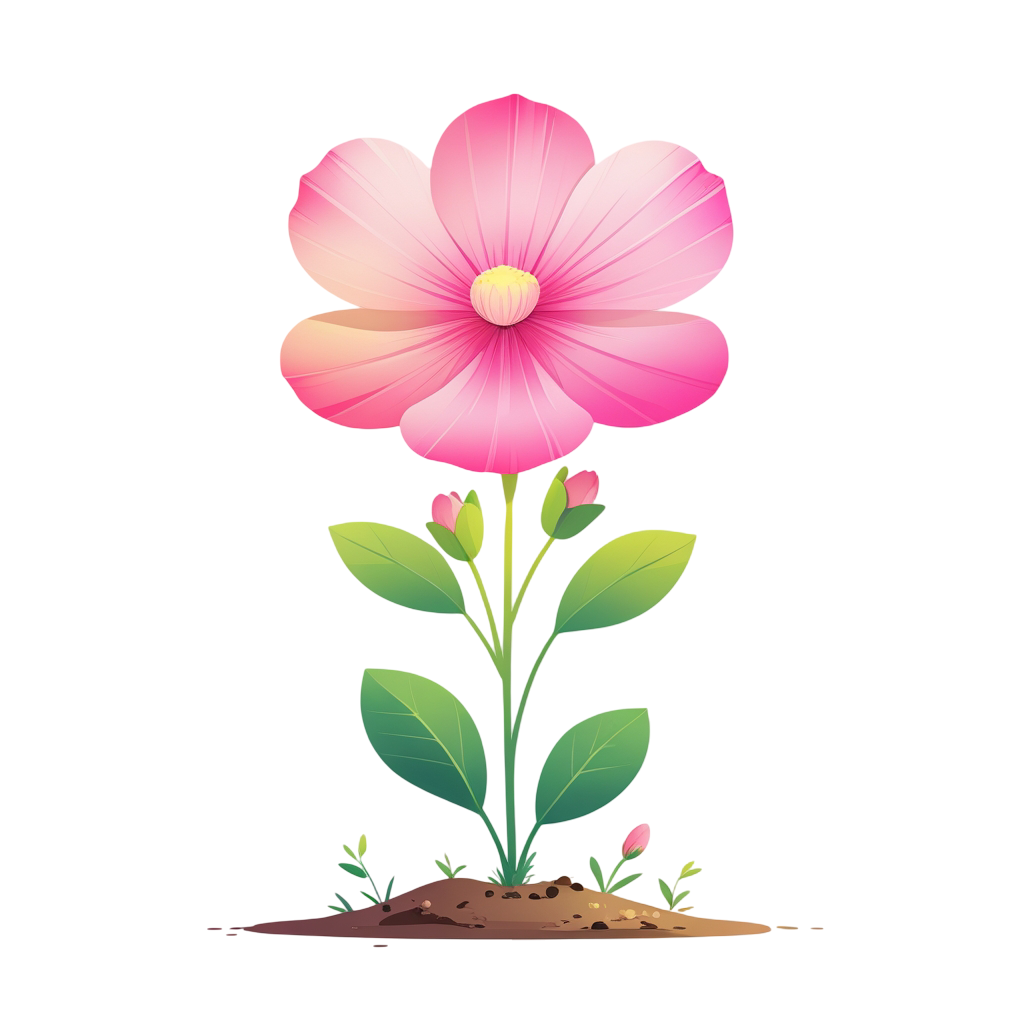
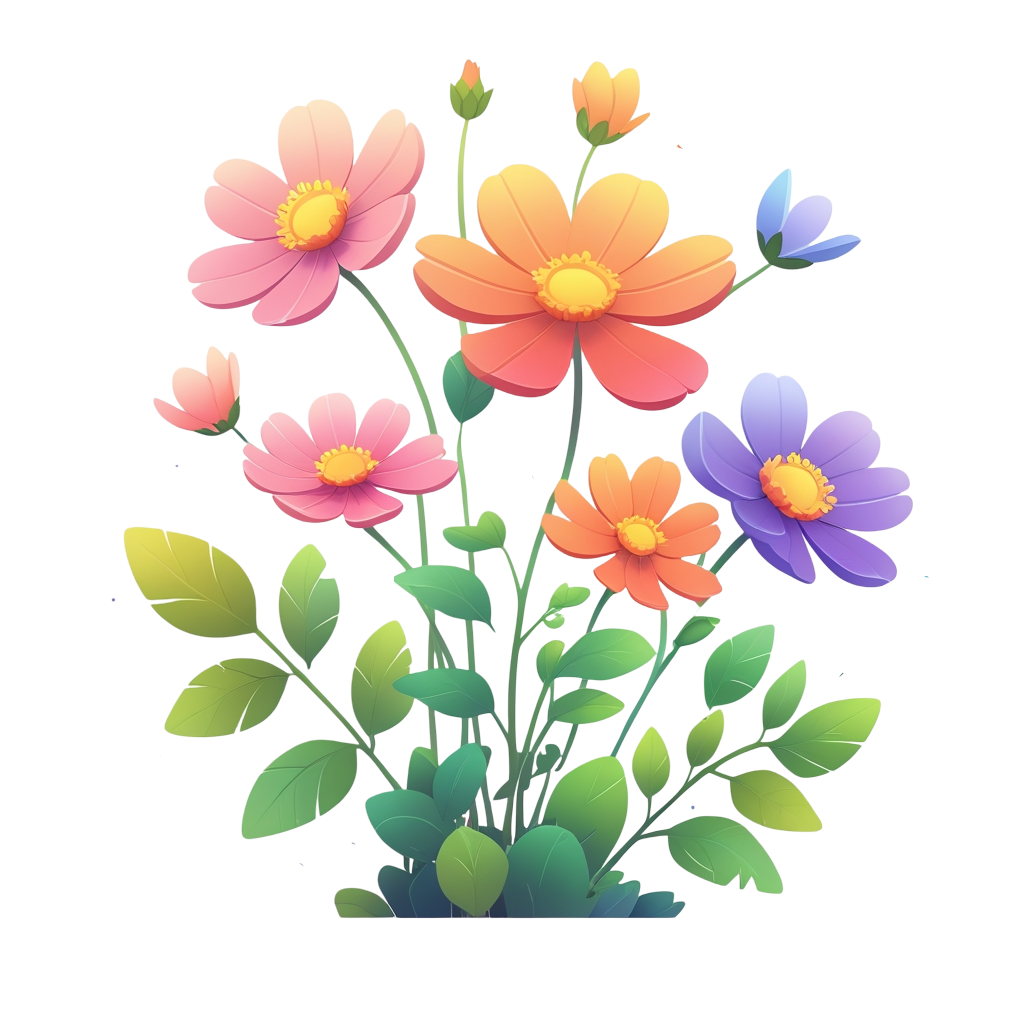
transaction bugs

diff --git a/app/goals/transaction.tsx b/app/goals/transaction.tsx
@@ -90,6 +90,12 @@ function EditGoalTransactionModal({ tx, symbol, goalId, onClose }: EditGoalTrans
   const [txType, setTxType] = useState<GoalTransactionType>("deposit");
   const [note, setNote] = useState("");
   const [confirmDelete, setConfirmDelete] = useState(false);
+  const [errorToast, setErrorToast] = useState("");
+
+  const showError = (msg: string) => {
+    setErrorToast(msg);
+    setTimeout(() => setErrorToast(""), 3000);
+  };
 
   useEffect(() => {
     if (tx) {
@@ -118,6 +124,7 @@ function EditGoalTransactionModal({ tx, symbol, goalId, onClose }: EditGoalTrans
       queryClient.invalidateQueries({ queryKey: ["goals", "active"] });
       handleClose();
     },
+    onError: (err: Error) => showError(err.message),
   });
 
   const deleteMutation = useMutation({
@@ -243,8 +250,15 @@ function EditGoalTransactionModal({ tx, symbol, goalId, onClose }: EditGoalTrans
                   <Text style={styles.deleteBtnText}>Delete transaction</Text>
                 </Pressable>
               )}
+
             </View>
           </KeyboardAvoidingView>
+
+          {!!errorToast && (
+            <View style={styles.errorToast} pointerEvents="none">
+              <Text style={styles.errorToastText}>{errorToast}</Text>
+            </View>
+          )}
         </View>
       </TouchableWithoutFeedback>
     </Modal>
@@ -254,12 +268,15 @@ function EditGoalTransactionModal({ tx, symbol, goalId, onClose }: EditGoalTrans
 // ─── Screen ──────────────────────────────────────────────────────────────────────
 
 export default function GoalTransactionsScreen() {
-  const { goalId, goalName, goalColor, symbol } = useLocalSearchParams<{
+  const { goalId, goalName, goalColor, symbol, goalStatus } = useLocalSearchParams<{
     goalId: string;
     goalName: string;
     goalColor: string;
     symbol: string;
+    goalStatus: string;
   }>();
+
+  const isReadOnly = goalStatus === "completed" || goalStatus === "cancelled";
 
   const { width } = useWindowDimensions();
   const compact = width < 500;
@@ -306,9 +323,9 @@ export default function GoalTransactionsScreen() {
         style={({ pressed }) => [
           styles.txCard,
           !compact && styles.txCardWide,
-          pressed && styles.txCardPressed,
+          pressed && !isReadOnly && styles.txCardPressed,
         ]}
-        onPress={() => setSelectedTx(item)}
+        onPress={() => { if (!isReadOnly) setSelectedTx(item); }}
       >
         <View style={[styles.iconBox, { backgroundColor: isDeposit ? "#EAF3E8" : "#FDECEA" }]}>
           <MaterialCommunityIcons
@@ -328,7 +345,7 @@ export default function GoalTransactionsScreen() {
         </Text>
       </Pressable>
     );
-  }, [compact, symbol]);
+  }, [compact, symbol, isReadOnly]);
 
   return (
     <View style={styles.root}>

diff --git a/app/store.tsx b/app/store.tsx
@@ -1,18 +1,18 @@
-import { BAR_HEIGHT, NavMenu } from "@/components/nav-menu";
 import { ACCOUNT_QUERY_KEY, AccountDto } from "@/app/(tabs)/dashboard";
+import { BAR_HEIGHT, NavMenu } from "@/components/nav-menu";
 import { api, getStoredToken } from "@/lib/api";
 import { styles } from "@/styles/store.styles";
+import { useQuery } from "@tanstack/react-query";
 import { Image } from "expo-image";
 import { LinearGradient } from "expo-linear-gradient";
 import { Redirect } from "expo-router";
-import { useQuery } from "@tanstack/react-query";
 import React, { useEffect, useState } from "react";
 import {
   FlatList,
-  Image as RNImage,
   Modal,
   Platform,
   Pressable,
+  Image as RNImage,
   Text,
   View,
 } from "react-native";
@@ -35,7 +35,7 @@ const FLOWERS: FlowerDef[] = [
   { id: "tulip",    name: "Tulip",    image: require("@/flowers/tulip.svg"),    price: 80,  description: "Elegant and cheerful, tulips bring a burst of spring color. Available in every shade, they brighten even the gloomiest day." },
   { id: "lavender", name: "Lavender", image: require("@/flowers/lavender.svg"), price: 60,  description: "Soothing and fragrant, lavender calms the senses and attracts pollinators. A must-have for any peaceful garden corner." },
   { id: "peony",    name: "Peony",    image: require("@/flowers/peony.svg"),    price: 150, description: "Lush and romantic, peonies bloom in spectacular clouds of petals. Their sweet scent and full blooms are truly show-stopping." },
-  { id: "bluebell", name: "Bluebell", image: require("@/flowers/bluebell.svg"), price: 50,  description: "Delicate woodland charmers that carpet the ground in a sea of blue. They bring a magical, fairy-tale feel to shaded spots." },
+  { id: "bluebell", name: "Bluebell", image: require("@/flowers/bluebell_v3.png"), price: 50,  description: "Delicate woodland charmers that carpet the ground in a sea of blue. They bring a magical, fairy-tale feel to shaded spots." },
   { id: "marigold", name: "Marigold", image: require("@/flowers/marigold.svg"), price: 70,  description: "Vibrant and hardy, marigolds glow like little suns. They naturally repel pests and keep your garden healthy and bright." },
   { id: "daisy",    name: "Daisy",    image: require("@/flowers/daisy.svg"),    price: 40,  description: "Simple, cheerful, and beloved by all. Daisies symbolize innocence and new beginnings — perfect for a fresh garden start." },
 ];

diff --git a/app/goals/index.tsx b/app/goals/index.tsx
@@ -560,6 +560,7 @@ export default function GoalsScreen() {
           return { ...g, currentAmount: g.currentAmount + delta };
         })
       );
+      queryClient.invalidateQueries({ queryKey: ["goal-transactions", goalId] });
     },
   });
 
@@ -670,7 +671,7 @@ export default function GoalsScreen() {
             onPress={(g) =>
               router.push({
                 pathname: "/goals/transaction",
-                params: { goalId: g.id, goalName: g.name, goalColor: g.color, symbol },
+                params: { goalId: g.id, goalName: g.name, goalColor: g.color, symbol, goalStatus: g.status },
               })
             }
             onMenu={setMenuGoal}

diff --git a/styles/goal-transactions.styles.ts b/styles/goal-transactions.styles.ts
@@ -321,4 +321,20 @@ export const styles = StyleSheet.create({
     fontSize: 14,
     color: "#fff",
   },
+  errorToast: {
+    position: "absolute",
+    top: 120,
+    alignSelf: "center",
+    backgroundColor: "#C0392B",
+    paddingHorizontal: 18,
+    paddingVertical: 12,
+    borderRadius: 12,
+    zIndex: 999,
+  },
+  errorToastText: {
+    fontFamily: "Nunito_700Bold",
+    fontSize: 14,
+    color: "#fff",
+    textAlign: "center",
+  },
 });
